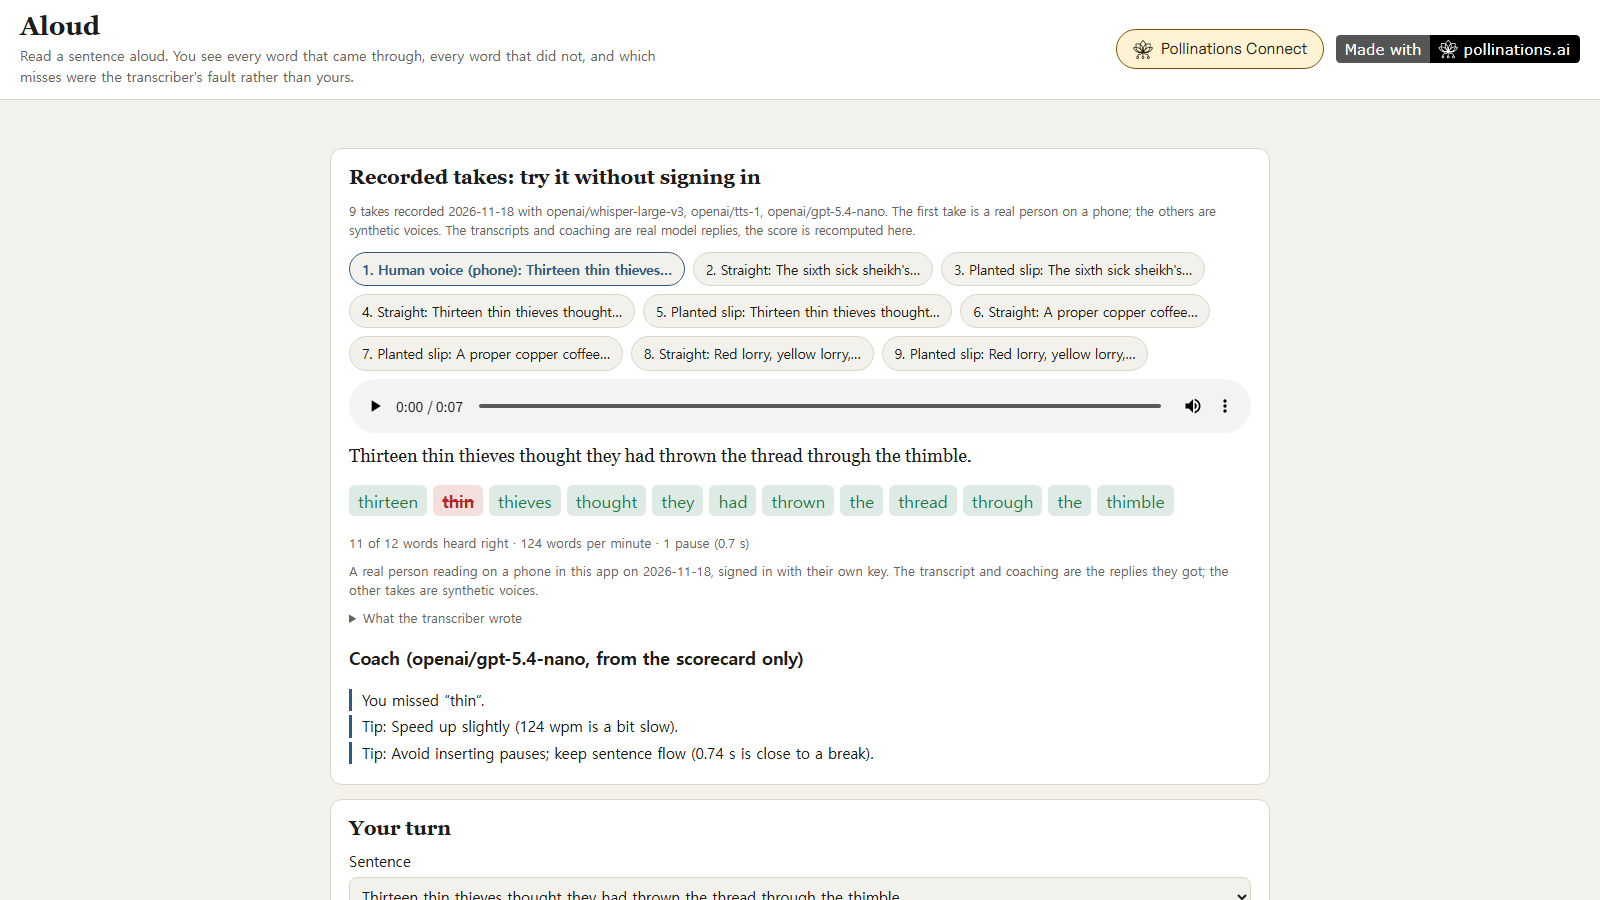
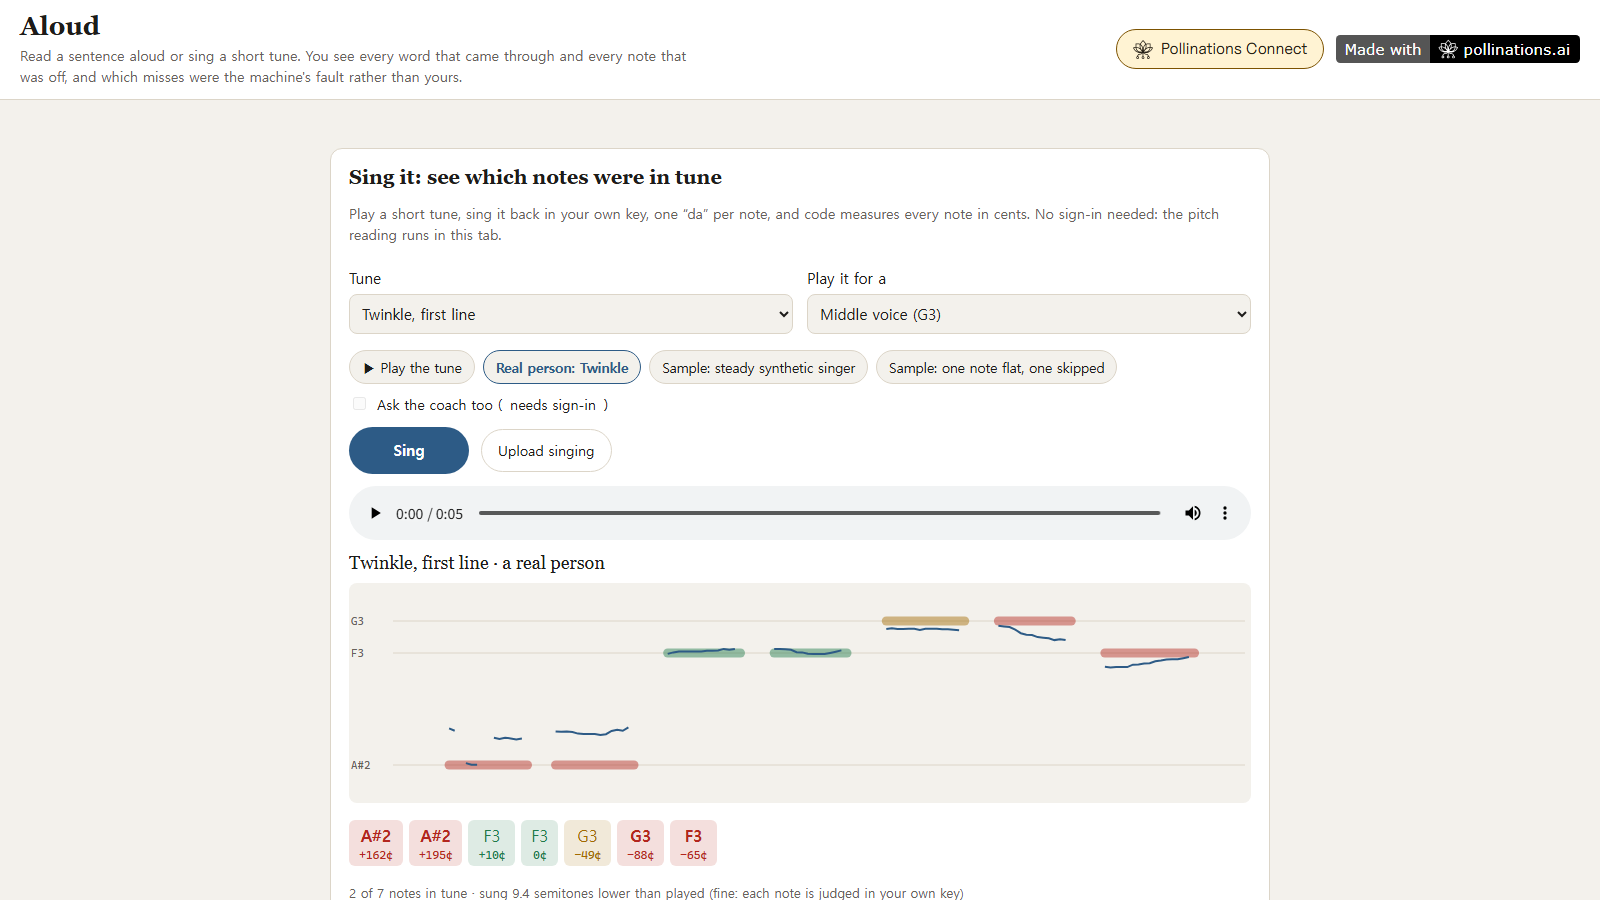
Sing it: recorded coach reply on the real take, #sing-demo link, 16:9 screenshot
- The real Twinkle take shows a coach reply (openai/gpt-5.4-nano) recorded from its scorecard; a test checks every note and number it cites is still on the scorecard
- https://patbing.github.io/aloud/#sing-demo opens with the singing panel first and the real take scored
- The pitch trace is drawn at the box's width, so labels stay readable on phones
- Header and README describe both modes; docs/screenshot.png now shows the real singing take

diff --git a/js/app.js b/js/app.js
@@ -152,8 +152,8 @@
   function tune() { return C.TUNES[Number($('tune').value)] || C.TUNES[0]; }
   function written() { return P.written(tune(), Number($('key').value)); }
 
-  function trace(sc, target, sec) {
-    var Wd = 900, Ht = 220, L = 44, pad = 6;
+  function trace(sc, target, sec, width) {
+    var Wd = Math.max(300, Math.min(1200, width || 900)), Ht = Wd < 600 ? 200 : 220, L = 44, pad = 6; // drawn at the box's own width so phone labels stay readable
     var ms = target.map(function (t) { return t.m + sc.shift; }), lo = Math.min.apply(null, ms) - 2, hi = Math.max.apply(null, ms) + 2;
     // Only the stretch with voice in it, so a silent lead-in does not squash the notes.
     var on = sc.frames.filter(function (f) { return f.m != null; }), t0 = on.length ? Math.max(0, on[0].t - 0.2) : 0, t1 = on.length ? Math.min(sec, on[on.length - 1].t + 0.2) : sec;
@@ -182,7 +182,7 @@
     box.textContent = '';
     box.appendChild(h('p', 'target', s.tune + (s.label ? ' · ' + s.label : '')));
     if (!sc.voiced || !sc.sung.length) { box.appendChild(h('p', 'warn', 'No held notes were heard. Sing louder or closer, one vowel per note, each held about half a second.')); return; }
-    box.appendChild(trace(sc, target, s.sec));
+    box.appendChild(trace(sc, target, s.sec, box.clientWidth));
     var line = h('p', 'words');
     sc.ops.forEach(function (o) {
       if (o.i == null) { var x = h('span', 'n extra', '+' + P.name(o.m)); x.title = 'an extra note, not in the tune'; line.appendChild(x); return; }
@@ -213,13 +213,14 @@
     return null;
   }
 
-  function scoreSung(got, label, note) {
-    var target = written(), s = { tune: tune().name, label: label, note: note, target: target, sec: got.samples.length / got.rate };
+  // recorded: a coach reply saved with a recorded take, shown instead of asking the coach again.
+  function scoreSung(got, label, note, recorded) {
+    var target = written(), s = { tune: tune().name, label: label, note: note, target: target, sec: got.samples.length / got.rate, coach: recorded };
     s.sc = P.score(got.samples, got.rate, target);
     $('singplayback').src = URL.createObjectURL(got.wav); $('singplayback').hidden = false;
     renderSung($('singresult'), s);
     var why = coachCheck();
-    if (!$('singcoach').checked || !s.sc.sung.length) { app.busy = false; render(); return; }
+    if (recorded || !$('singcoach').checked || !s.sc.sung.length) { app.busy = false; render(); return; }
     if (why) { say('Coach not asked: ' + why + '.', true); app.busy = false; render(); return; }
     app.ctrl = new AbortController();
     say('Asking the coach…');
@@ -263,11 +264,12 @@
   function human() {
     if (app.busy) return;
     app.busy = true; render();
-    $('tune').value = '2';
-    fetch('recordings/sing_twinkle_human.wav').then(function (r) { if (!r.ok) throw new Error('HTTP ' + r.status); return r.blob(); })
-      .then(A.decode).then(function (got) {
-        scoreSung(got, 'a real person', 'A real person singing on "da", recorded on this page. The notes are measured by the same code your own take gets.');
-      }).catch(function (e) { app.busy = false; say('Could not load the recorded take: ' + (e && e.message || e), true); render(); });
+    function get(u, how) { return fetch(u).then(function (r) { if (!r.ok) throw new Error('HTTP ' + r.status); return r[how](); }); }
+    Promise.all([get('recordings/sing_coach.json', 'json'), get('recordings/sing_twinkle_human.wav', 'blob').then(A.decode)]).then(function (r) {
+      var rec = r[0];
+      $('tune').value = String(rec.tune); $('key').value = String(rec.key); // the coach's scorecard was made with these
+      scoreSung(r[1], 'a real person', 'A real person singing on "da", recorded on this page. The notes are measured by the same code your own take gets. The coach reply below was recorded on ' + rec.recordedAt + ' from this scorecard; your own takes get a fresh one.', rec.text);
+    }).catch(function (e) { app.busy = false; say('Could not load the recorded take: ' + (e && e.message || e), true); render(); });
   }
 
   function singStart() {
@@ -347,6 +349,10 @@
     N.prices().then(function (p) { app.prices = p; render(); }).catch(function (e) { say('Model list unavailable: ' + e.message, true); });
     loadRecordings();
     render();
+    if (location.hash === '#sing-demo') { // a link straight to the real singing take, with the singing panel first
+      var sp = document.querySelector('[aria-label="Sing it"]'); sp.parentNode.insertBefore(sp, $('notice').nextSibling);
+      human();
+    }
   }
   init();
 })();

diff --git a/index.html b/index.html
@@ -3,8 +3,8 @@
 <head>
 <meta charset="utf-8">
 <meta name="viewport" content="width=device-width, initial-scale=1">
-<title>Aloud · read it out, see which words came through</title>
-<meta name="description" content="Read a sentence aloud. A transcriber writes what it heard, code lines it up with the sentence word by word, and a clean synthetic reading shows which misses are the transcriber's fault, not yours.">
+<title>Aloud · read it out or sing it, see what came through</title>
+<meta name="description" content="Read a sentence aloud or sing a short tune. A transcriber writes what it heard, code lines it up with the sentence word by word, and a clean synthetic reading shows which misses are the transcriber's fault, not yours.">
 <meta name="color-scheme" content="light dark">
 <link rel="stylesheet" href="css/style.css">
 <script defer src="https://cdn.jsdelivr.net/npm/@pollinations/ui@0.1.0-alpha.31/dist/connect.js"></script>
@@ -13,7 +13,7 @@
 <header class="top">
   <div class="brand">
     <h1>Aloud</h1>
-    <p>Read a sentence aloud. You see every word that came through, every word that did not, and which misses were the transcriber's fault rather than yours.</p>
+    <p>Read a sentence aloud or sing a short tune. You see every word that came through and every note that was off, and which misses were the machine's fault rather than yours.</p>
   </div>
   <div class="topright">
     <span id="spent" class="spent" hidden></span>

diff --git a/tests/pitch.test.js b/tests/pitch.test.js
@@ -95,3 +95,20 @@ test('room noise is not taken from digital silence', () => {
   const n = P.roomNoise(x, R);
   assert.ok(n.some((v) => v !== 0));
 });
+
+test('the recorded real take still scores as its saved coach reply says', () => {
+  const fs = require('node:fs');
+  const rec = JSON.parse(fs.readFileSync(__dirname + '/../recordings/sing_coach.json', 'utf8'));
+  const b = fs.readFileSync(__dirname + '/../recordings/' + rec.take);
+  let o = 12, data;
+  while (o < b.length) { const id = b.toString('ascii', o, o + 4), n = b.readUInt32LE(o + 4); if (id === 'data') { data = b.subarray(o + 8, o + 8 + n); break; } o += 8 + n + (n & 1); }
+  const x = new Float32Array(data.length / 2);
+  for (let i = 0; i < x.length; i++) x[i] = data.readInt16LE(i * 2) / 32768;
+  const win = {}; new Function('window', fs.readFileSync(__dirname + '/../js/config.js', 'utf8'))(win);
+  const t = P.written(win.AL.config.TUNES[rec.tune], rec.key);
+  const c = P.card('x', t, P.score(x, 16000, t));
+  // Every note and number the coach cited must still be on the scorecard.
+  for (const [, note, cents] of rec.text.matchAll(/([A-G]#?\d)[^\n]*? (-?\d+) cents/g)) {
+    assert.ok(c.notes.some((n) => n.note === note && n.cents === Number(cents)), note + ' ' + cents);
+  }
+});

diff --git a/README.md b/README.md
@@ -2,9 +2,11 @@
 
 [![Made with pollinations.ai](https://raw.githubusercontent.com/pollinations/pollinations/main/packages/ui/src/brand/badge-made-with.svg)](https://pollinations.ai/?ref=badge)
 
-**Read it out, see which words came through.** Live: https://patbing.github.io/aloud/
+**Read it out or sing it, see what came through.** Live: https://patbing.github.io/aloud/
 
-![Aloud](docs/screenshot.png)
+![Aloud: a real person's Twinkle, note by note](docs/screenshot.png)
+
+Open https://patbing.github.io/aloud/#sing-demo to land on the real singing take.
 
 Pick a tongue twister or type your own sentence, then read it aloud. `openai/whisper-large-v3` writes down what it heard, with no hint of the sentence. Code lines that transcript up with the sentence word by word: heard right, heard as something else, not heard, or extra. Words per minute and pauses come from the recording itself.
 
